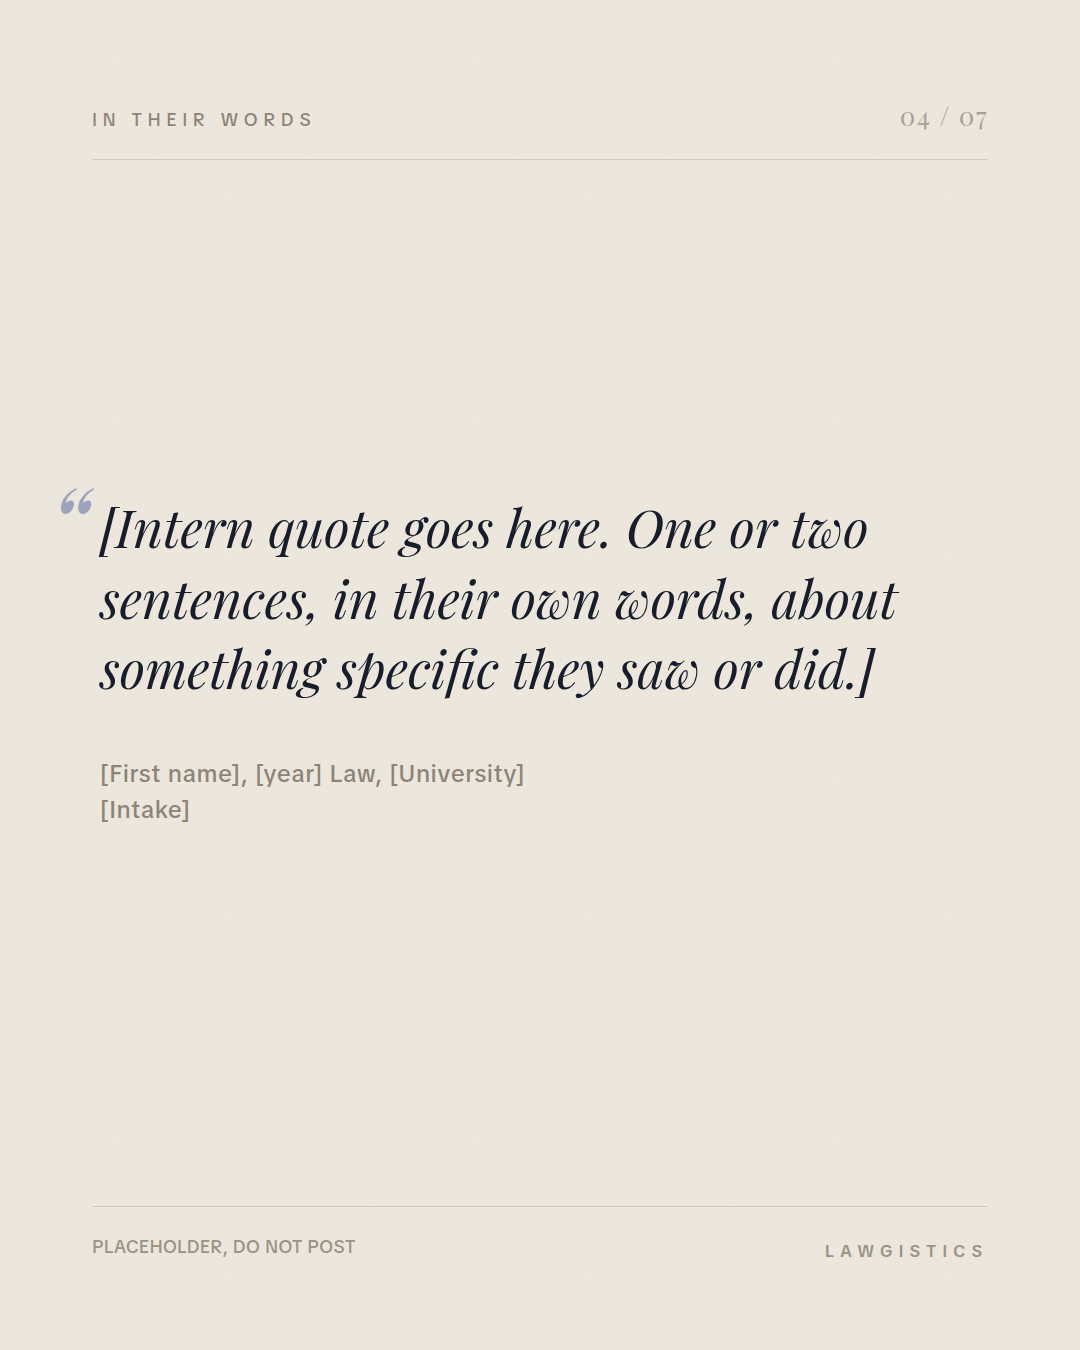
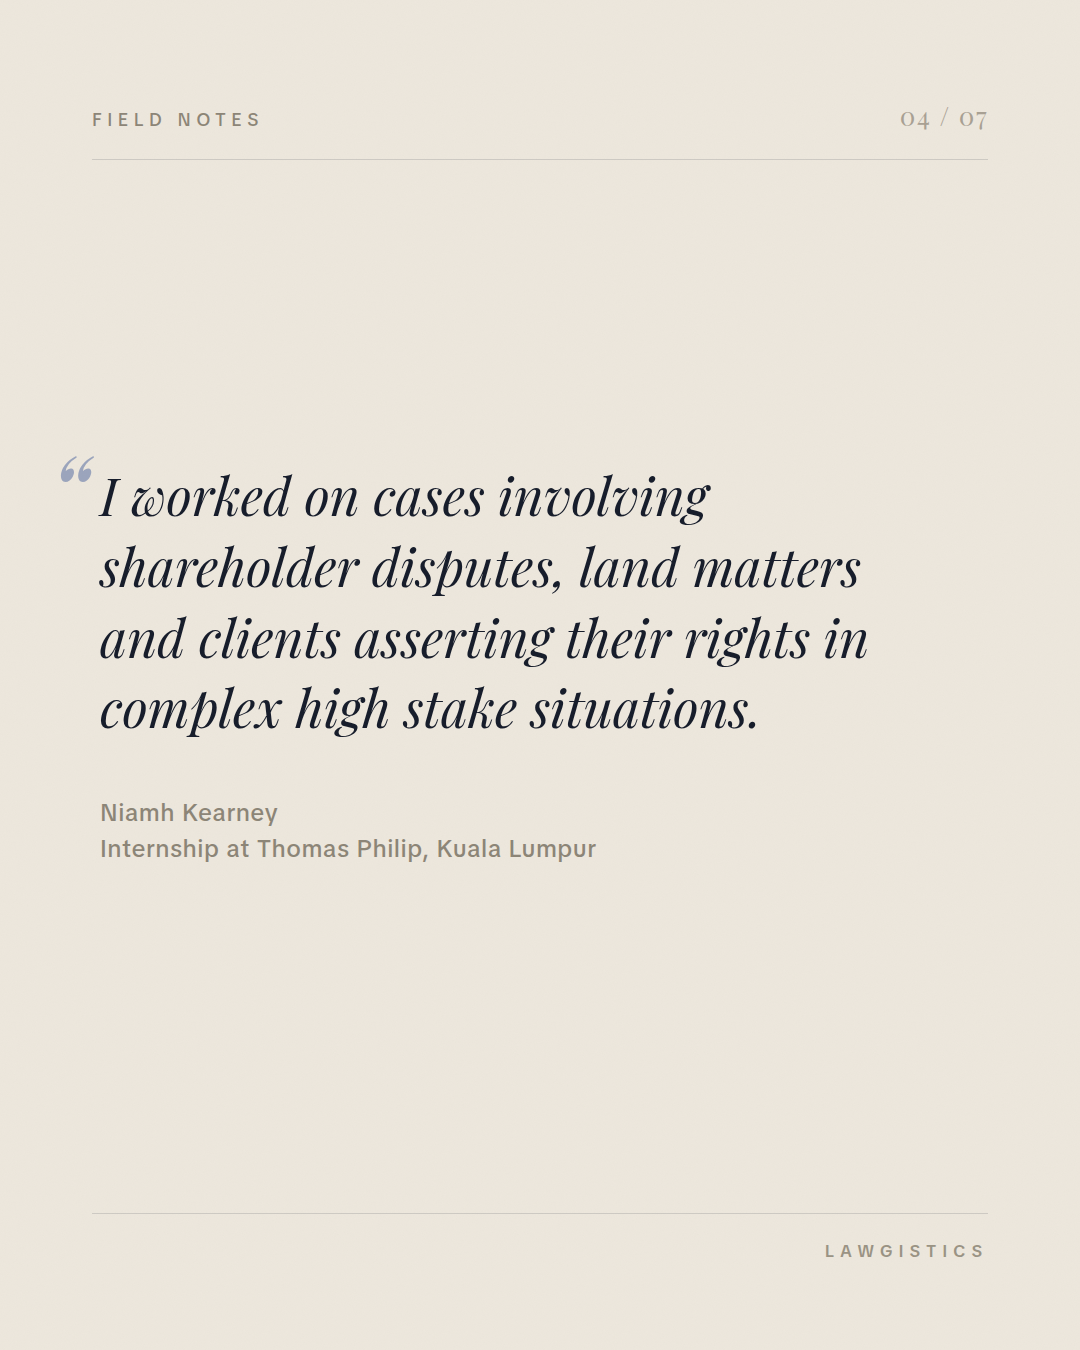
Fill quote slides from the blog post, deck now postable
Slides 4 and 6 carry verbatim excerpts from 'The Law and the People It Leaves
Behind' by Niamh Kearney, attributed to the post rather than framed as
testimonials. Kicker changed to FIELD NOTES. Placeholder footers removed.

Claude-Session: https://claude.ai/code/session_01JRjeUUcoRT5GxuTf3inkfN

Changed region(s): [[0.0611, 0.3422, 0.825, 0.6533], [0.0917, 0.9022, 0.3361, 0.9333], [0.0917, 0.0622, 0.275, 0.0933]]

diff --git a/tools/carousel/pinned.py b/tools/carousel/pinned.py
@@ -134,21 +134,19 @@ slide(3, "The City",
   '<div class="body"><p>One of Asia&rsquo;s legal and financial hubs, eight hours from Sydney.</p>'
   '<p>Thirty degrees in February. Street food at midnight.</p></div>')
 
-# PLACEHOLDER. Replace with a real quote from a real intern before posting.
-slide(4, "In Their Words",
-  '<div class="quote">[Intern quote goes here. One or two sentences, in their own words, about something specific they saw or did.]</div>'
-  '<div class="attrib">[First name], [year] Law, [University]<br>[Intake]</div>',
-  light=True, cite="PLACEHOLDER, DO NOT POST")
+slide(4, "Field Notes",
+  '<div class="quote">I worked on cases involving shareholder disputes, land matters and clients asserting their rights in complex high stake situations.</div>'
+  '<div class="attrib">Niamh Kearney<br>Internship at Thomas Philip, Kuala Lumpur</div>',
+  light=True)
 
 slide(5, "The Return",
   '<div class="statement md">International exposure, years ahead of <em>your cohort.</em></div>'
   '<div class="body"><p>It shows up in interviews, in applications, and in what you get trusted with once you are hired.</p></div>')
 
-# PLACEHOLDER. Replace with a real quote from a real intern before posting.
-slide(6, "In Their Words",
-  '<div class="quote">[Second intern quote. Ideally about the city or the people, so it does a different job from the first.]</div>'
-  '<div class="attrib">[First name], [year] Law, [University]<br>[Intake]</div>',
-  light=True, cite="PLACEHOLDER, DO NOT POST")
+slide(6, "Field Notes",
+  '<div class="quote">The law might technically be available to everyone, but in reality, it is often limited to those who can afford to understand and use it.</div>'
+  '<div class="attrib">Niamh Kearney<br>The Law and the People It Leaves Behind, on the blog</div>',
+  light=True)
 
 slide(7, "Applications",
   '<div class="statement md">Link in <em>bio.</em></div>',

diff --git a/reports/assets/pinned/POSTING-KIT.md b/reports/assets/pinned/POSTING-KIT.md
@@ -3,32 +3,18 @@
 **Post:** 7 slides, `pinned-slide-01.png` to `-07.png`, upload in order. Navy dominant.
 **Purpose:** the post you pin to the top of the grid. Someone lands from a case post, and within one swipe understands what Lawgistics is and wants in.
 
-## ⚠ NOT POSTABLE YET
+## The quote slides
 
-**Slides 4 and 6 are placeholders.** They are designed and ready, but the text in them is bracketed instructions, and the footer of each reads PLACEHOLDER, DO NOT POST. Replace both with real quotes from real interns before this goes anywhere.
+Slides 4 and 6 are **verbatim from "The Law and the People It Leaves Behind"**, Niamh Kearney, 6 March, on the Lawgistics blog. Not testimonials, excerpts, which is why the kicker reads FIELD NOTES and the attribution names the post. Nothing is invented and nothing is paraphrased.
 
-**I will not write the quotes.** Inventing testimonials from students who do not exist is misleading and deceptive conduct under the Australian Consumer Law, it is the easiest thing in the world for a competitor or an unhappy applicant to screenshot, and the audience is lawyers. Two real sentences beat six invented ones anyway, because real ones contain specifics nobody would think to make up.
+| Slide | Quote | Source |
+|---|---|---|
+| 04 | "I worked on cases involving shareholder disputes, land matters and clients asserting their rights in complex high stake situations." | verbatim, para 2 |
+| 06 | "The law might technically be available to everyone, but in reality, it is often limited to those who can afford to understand and use it." | verbatim, one word changed: "it's" set as "it is" for the serif setting |
 
-### How to get the quotes, fast
+**Why excerpts rather than testimonials.** A quote from the person who runs Lawgistics is not an independent endorsement, and presenting it as one would be a problem under the Australian Consumer Law. Framed as an excerpt from a named, published, dated blog post, it is simply a citation, and it happens to read as more premium than a testimonial would. If you later get quotes from other interns, they can sit alongside these with a different kicker.
 
-Message past interns with this:
-
-> Hi [name], I am putting together a pinned post for the Lawgistics page and would love to include something from you. Two questions, one line each is plenty.
-> 1. What is one specific thing you saw or did that you would not have got at home?
-> 2. What surprised you about KL?
-> Happy to use first name, year level and uni, or keep it to first name only. Let me know what you are comfortable with.
-
-Three replies gives you two good quotes. Ask permission explicitly, and keep the message, that is your consent record.
-
-### What makes a quote work
-
-- **Specific beats glowing.** "I watched a bail application at 9am on my second day" is worth ten times "it was an amazing experience".
-- Keep it to roughly 25 words so it sits at full size on the slide.
-- Slide 4 should be about the work. Slide 6 about the city or the people, so they do different jobs.
-- Attribution: first name, year level, university, intake. Never a full name without asking.
-- Do not clean up their voice. The unpolished ones read as real, which is the entire point.
-
-Send me the quotes and I will typeset and re-render both slides.
+**Slide 4 names Thomas Philip.** Already public on your own blog, so it is safe, but it is a specific claim about one host organisation. If interns are placed across several firms, consider whether the pinned post should name just one.
 
 ---
 
@@ -39,9 +25,9 @@ Send me the quotes and I will typeset and re-render both slides.
 | 01 | Lawgistics | Destination cover. Makes no argument, the place does the work. |
 | 02 | The Program | What it is, stated once, no over-explaining. |
 | 03 | The City | KL itself, in concrete detail. Flight time, temperature, food. |
-| 04 | In Their Words | **Testimonial, placeholder.** |
+| 04 | Field Notes | Blog excerpt: the actual work, named matters. |
 | 05 | The Return | What it does for you afterwards. |
-| 06 | In Their Words | **Testimonial, placeholder.** |
+| 06 | Field Notes | Blog excerpt: the access to justice line. Shows the program produces a view, not just a line on a CV. |
 | 07 | Applications | Link in bio. Nothing else. |
 
 **Why it is built this way.** The old version explained and taught: courtroom access, practical experience, career insight, why Malaysia inherited the common law. Nobody applies to an internship to learn things. They apply to be somewhere other people are not. Every slide now states a gain or shows status, and the close is three words because a confident offer does not repeat itself.
@@ -65,6 +51,8 @@ What you take home is international legal exposure years ahead of everyone else 
 Open from first year through to final year, and to recent graduates.
 
 Applications are in the link in bio.
+
+Slides 4 and 6 are from "The Law and the People It Leaves Behind", on our blog.
 
 #lawstudent #auslaw #lawschool #legalinternship #lawcareers #clerkship #kualalumpur #lawstudentlife #studyabroad #lawgistics
 

diff --git a/reports/POST-QUEUE.md b/reports/POST-QUEUE.md
@@ -9,7 +9,8 @@ One post per weekday. Fridays: The Big Case File (pop-culture legal breakdown).
 | Sat 1 Aug 2026 | Hanson v Faruqi, Full Court, s 18C appeal dismissed | reports/assets/2026-08-01/hanson-slide-*.png + dayincourt catch-up | POSTED ✅ |
 | Sat 1 Aug 2026 (post 2) | ACCC v JustAnswer [2026] FCA 871, "$2 that cost $10 million" + subscription trap ban | reports/assets/2026-08-01/justanswer-slide-*.png | READY |
 | Fri 7 Aug 2026 | Potter (a pseudonym) v The King [2026] HCA 25, covert recording lawful, High Court unanimous | reports/assets/2026-08-07/potter-slide-*.png | READY, lead post |
-| PIN | Pinned post, evergreen, 7 slides, status led, no dates so it never goes stale | reports/assets/pinned/ | BLOCKED, slides 4 and 6 need real intern quotes |
+| PIN | Pinned post, evergreen, 7 slides, status led, no dates so it never goes stale | reports/assets/pinned/ | READY to post and pin |
+| Soon | "The Law and the People It Leaves Behind", carousel of the blog post, strongest writing on the site | not built yet | PROPOSED, say the word |
 | Anytime | Intern program carousel, house style, navy | reports/assets/2026-08-07/intern-program/ | READY, needs dates + deadline |
 | Anytime | 5 more legal cases that sound fake, 7 slides | reports/assets/2026-08-07/sound-fake/ | READY, check no overlap with the original |
 | Anytime | The snail and the underpants, Donoghue + Grant, 9 slides | reports/assets/2026-08-07/negligence/ | READY, strongest student post |
